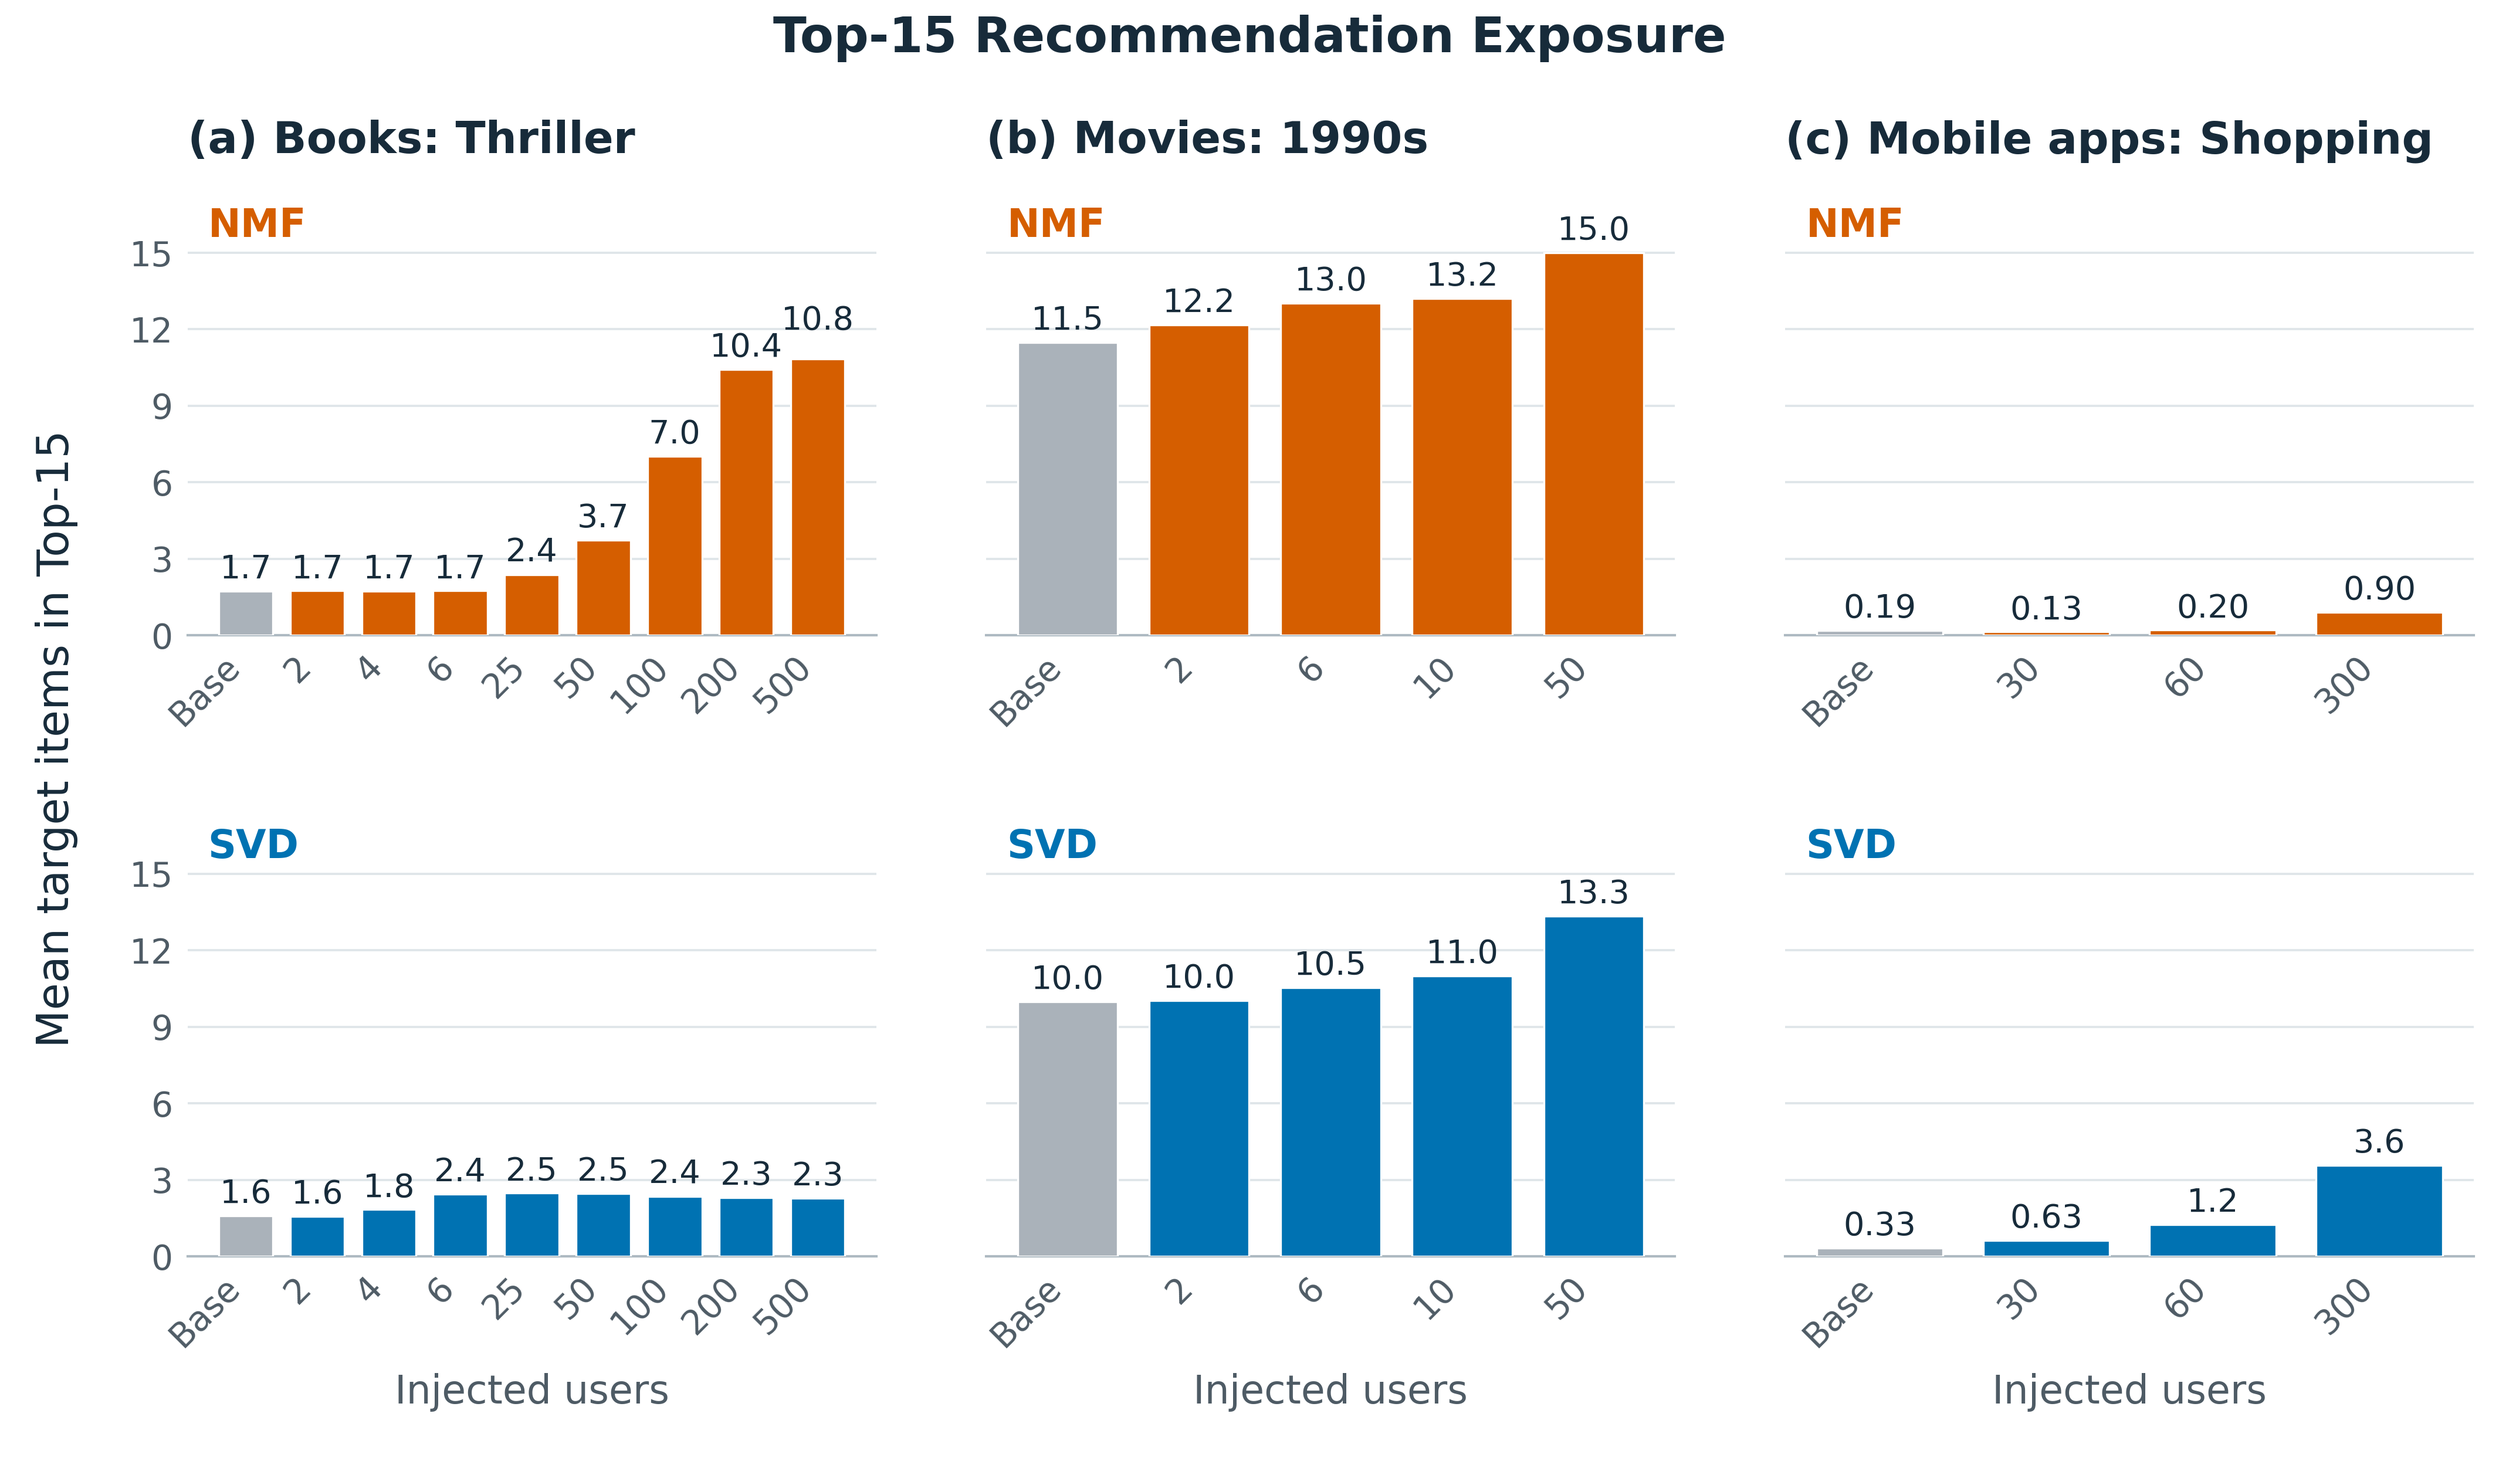
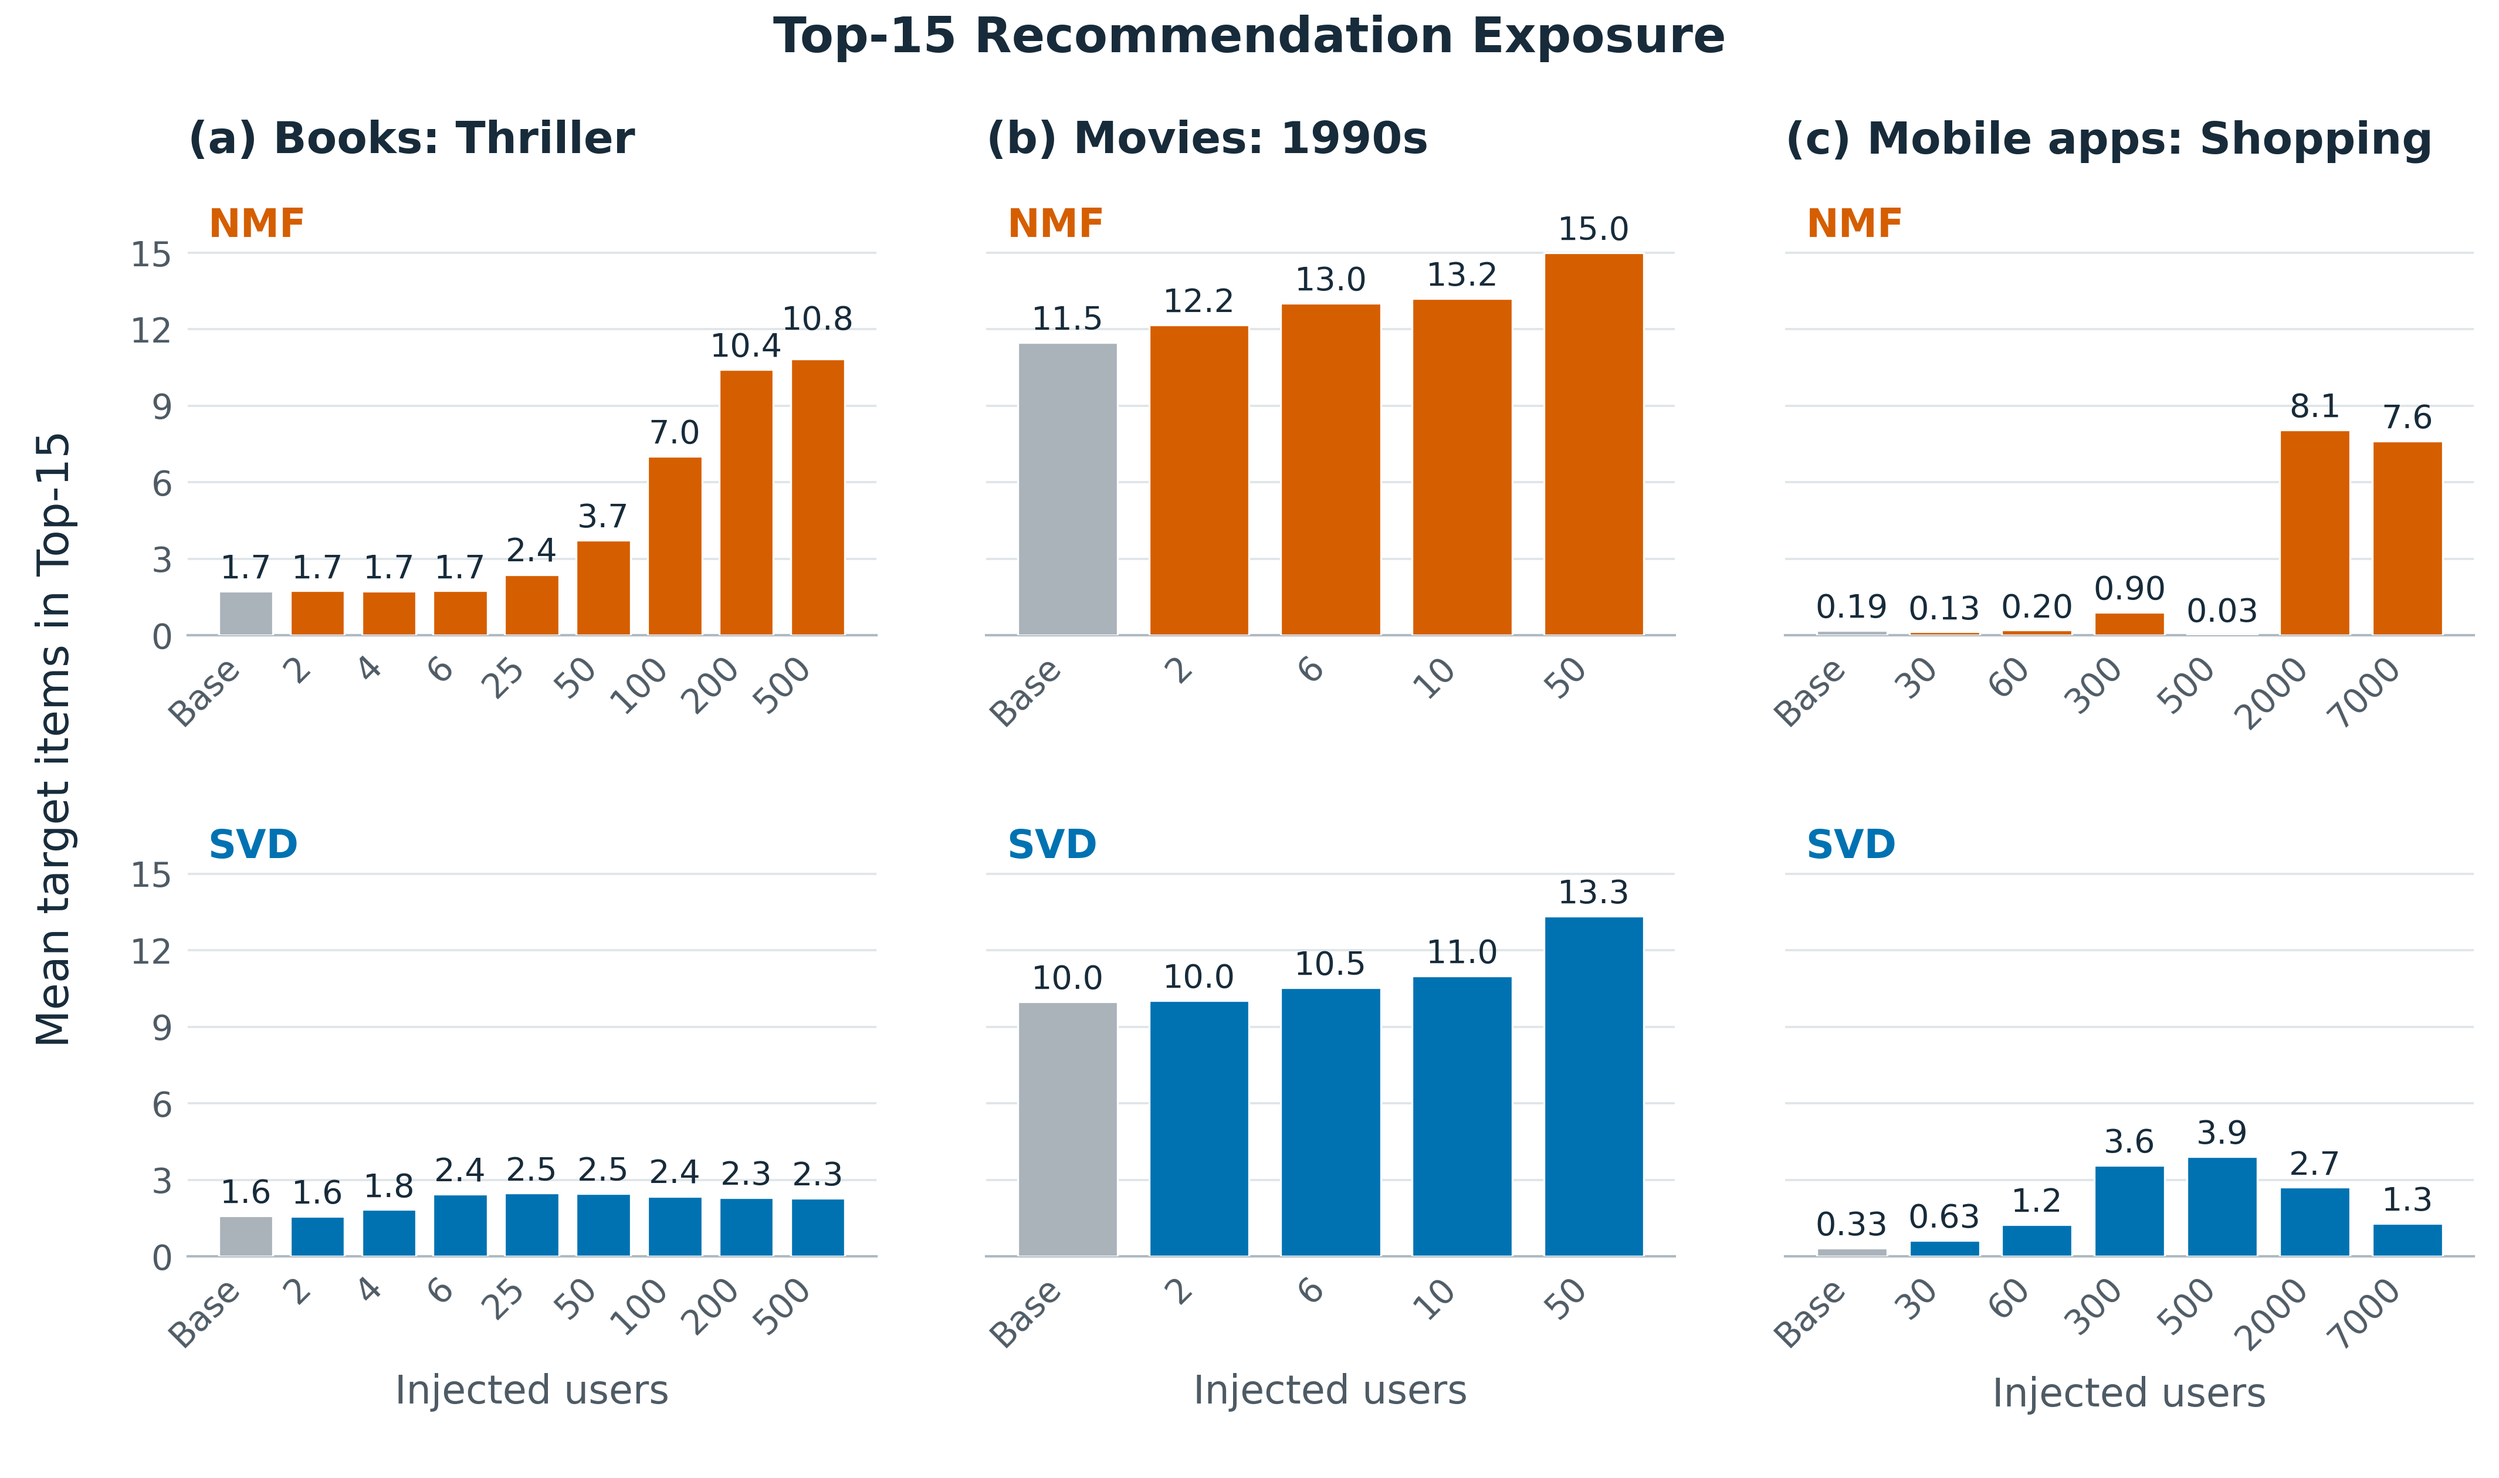
Extend mobile exposure figures through 7000 users

Changed region(s): [[0.7181, 0.2786, 0.9991, 0.4952], [0.7181, 0.7429, 0.9991, 0.8976], [0.8117, 0.9286, 0.9054, 0.9595]]

diff --git a/First_paper_material/notebook/rebuild_paper_exposure_palette.py b/First_paper_material/notebook/rebuild_paper_exposure_palette.py
@@ -12,6 +12,13 @@ source=R/'data/recommendation_exposure_top15.csv'
 dest=R/'figures/recommendation_exposure_top15.png'
 df=pd.read_csv(source)
 assert len(df)==36 and set(df.k)=={15}
+stage=json.loads((R/'notebook/poster_svd_nmf_stage1_validation.json').read_text())
+mobile=pd.DataFrame([{'dataset':'Mobile apps','target':'Shopping','model':r['model'],'n_fake':r['n_fake'],'n_real_users':700111,'mean_target_count':r['mean']} for r in stage['results'] if r['dataset']=='Mobile apps'])
+assert set(mobile.n_fake)=={0,30,60,300,500,2000,7000}
+base_mobile=df[df.dataset=='Mobile apps']
+shared=mobile[mobile.n_fake<=300].merge(base_mobile,on=['dataset','model','n_fake'],suffixes=('_stage','_paper'))
+assert len(shared)==8 and all(abs(shared.mean_target_count_stage-shared.mean_target_count_paper)<1e-10)
+df=pd.concat([df[df.dataset!='Mobile apps'],mobile],ignore_index=True)
 colors={'SVD':'#0072B2','NMF':'#D55E00'}
 plt.rcParams.update({'font.family':'DejaVu Sans','font.size':8,'axes.titlesize':9,'axes.titleweight':'bold','axes.labelsize':8,'xtick.labelsize':7,'ytick.labelsize':7,'axes.spines.top':False,'axes.spines.right':False,'axes.spines.left':False,'axes.linewidth':.5,'figure.facecolor':'white','savefig.facecolor':'white'})
 fig,axs=plt.subplots(2,3,figsize=(7.1,4.2),sharey=True)
@@ -40,5 +47,5 @@ fig.suptitle('Top-15 Recommendation Exposure',fontsize=10,fontweight='bold',colo
 fig.supylabel('Mean target items in Top-15',x=.014,fontsize=9,color='#172B3A')
 fig.subplots_adjust(left=.075,right=.99,top=.86,bottom=.15,wspace=.16,hspace=.45)
 fig.savefig(dest,dpi=600);plt.close(fig)
-(R/'notebook/paper_exposure_palette_validation.json').write_text(json.dumps({'source':str(source),'source_sha256':hashlib.sha256(source.read_bytes()).hexdigest(),'output':str(dest),'palette':colors,'no_new_experiment':True,'source_values_unchanged':True,'series':series},indent=2))
+(R/'notebook/paper_exposure_palette_validation.json').write_text(json.dumps({'source':str(source),'source_sha256':hashlib.sha256(source.read_bytes()).hexdigest(),'output':str(dest),'palette':colors,'no_new_experiment':True,'source_values_unchanged':True,'mobile_extended_from_stage1_manifest':True,'mobile_counts':sorted(mobile.n_fake.unique().tolist()),'series':series},indent=2))
 print(dest)
